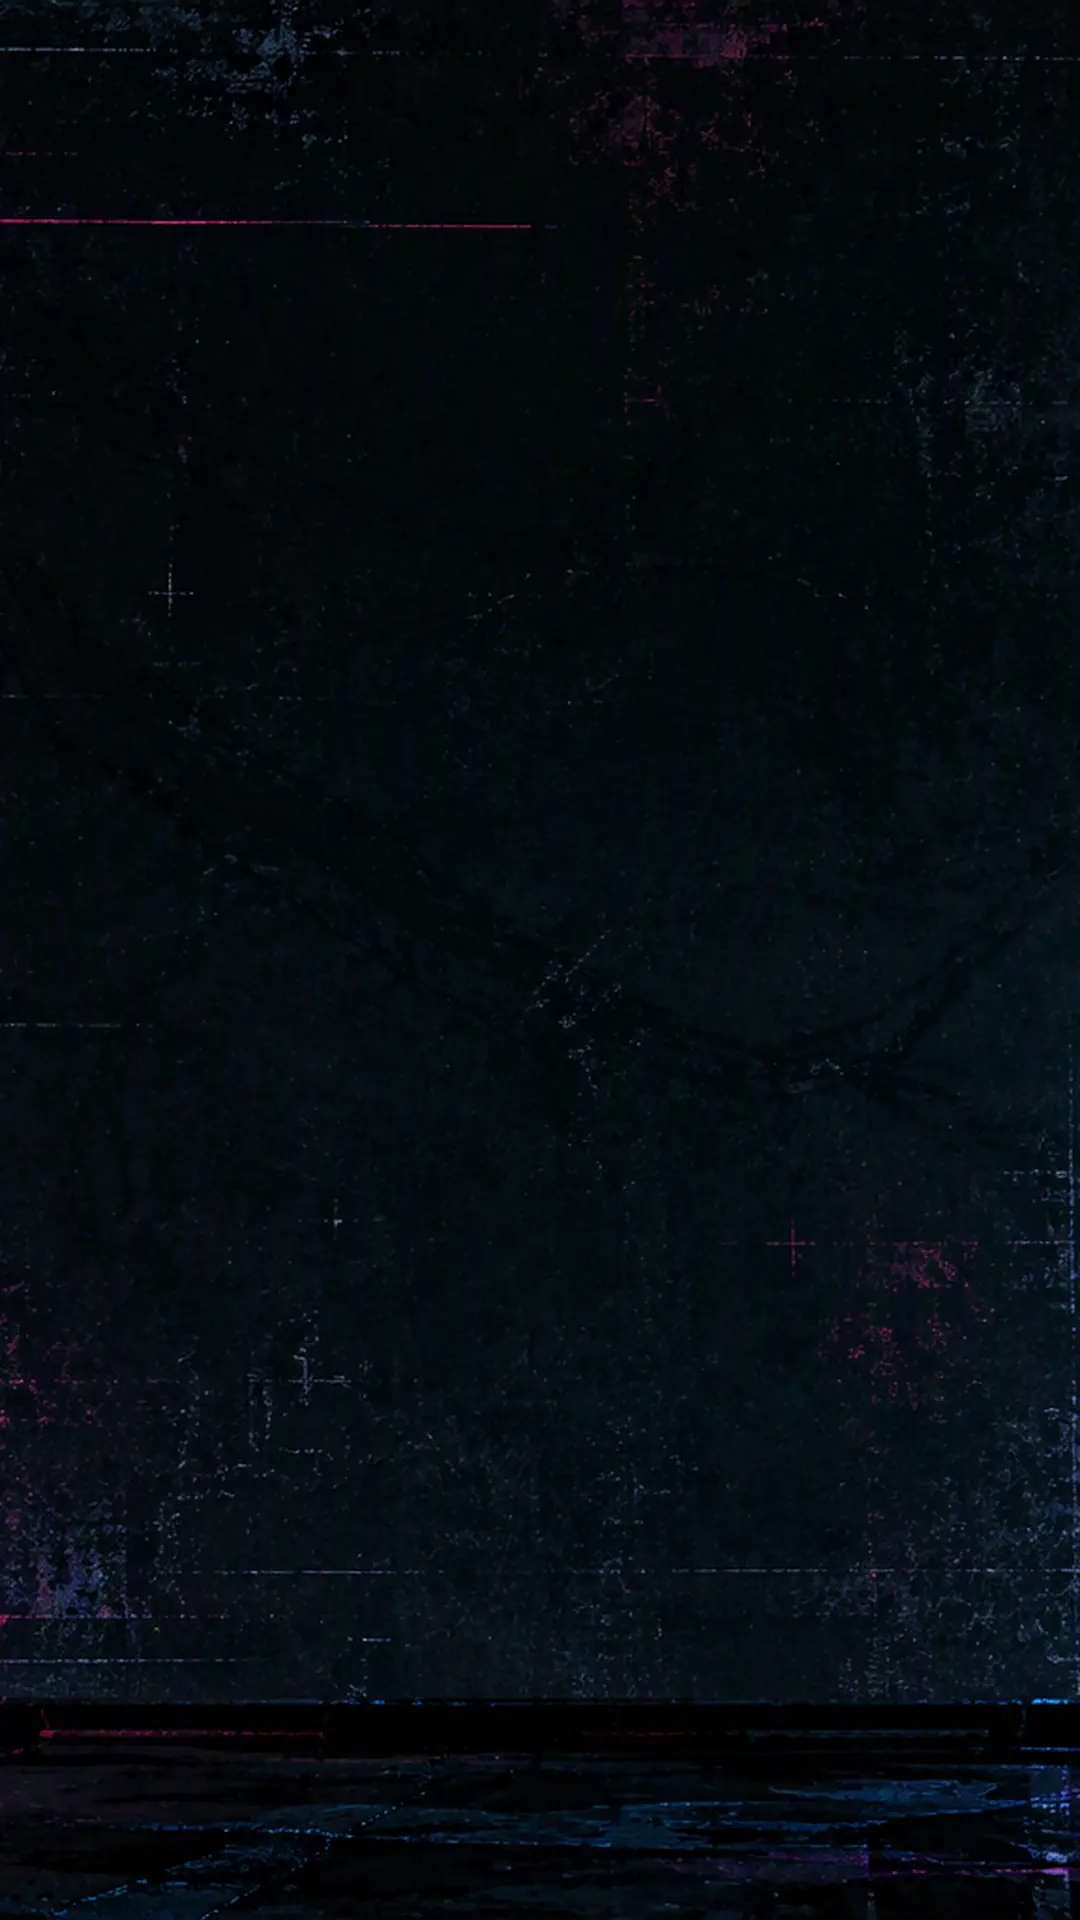
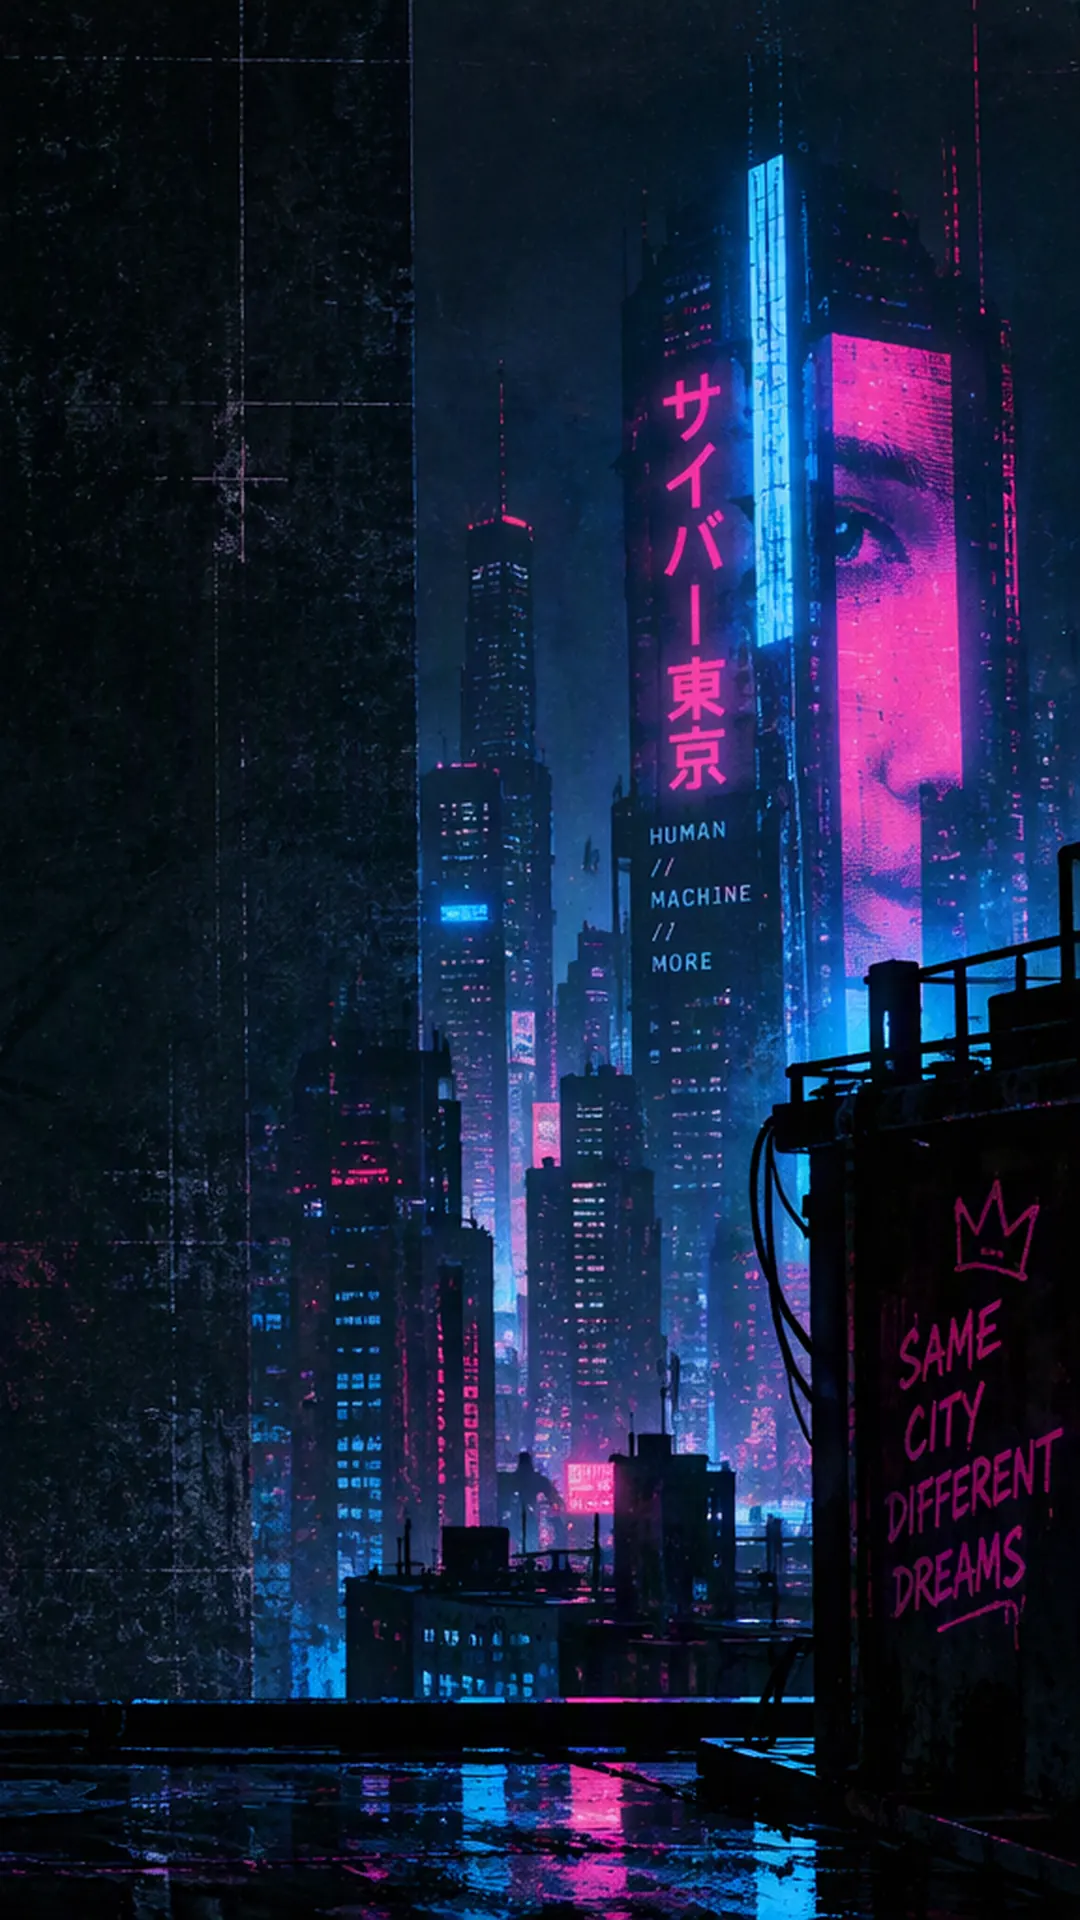
Make the background image actually render
A url() inside a CSS custom property resolves against the stylesheet, so the
layer pointed at /assets/images/punk2.webp, which does not exist. Vercel's SPA
rewrite answered that request with index.html and a 200, so the browser got
HTML where it expected an image. The background URL is now absolute.

The phone crop also took the empty middle of the artwork; it now uses the
skyline on the right, behind a gradient scrim. Content saved before the WebP
rename is migrated on load so old /images/*.png paths keep working.

diff --git a/my-portfolio/src/lib/contentStore.js b/my-portfolio/src/lib/contentStore.js
@@ -53,15 +53,35 @@ function writeJson(key, value) {
   }
 }
 
+// Image files that were optimised and renamed. Browsers that still hold the
+// old paths in localStorage would otherwise show a broken background or photo.
+const RENAMED_IMAGES = {
+  '/images/punk2.png': '/images/punk2.webp',
+  '/images/home-image-jo7t6d.jpg': '/images/home-image-jo7t6d.webp',
+}
+
+function migrateImagePaths(content) {
+  const fix = (value) => (typeof value === 'string' && RENAMED_IMAGES[value]) || value
+
+  return {
+    ...content,
+    site: content.site
+      ? { ...content.site, backgroundImage: fix(content.site.backgroundImage) }
+      : content.site,
+    home: content.home ? { ...content.home, image: fix(content.home.image) } : content.home,
+  }
+}
+
 /** The content currently published by the site (what visitors see). */
 export function loadPublished() {
   const stored = readJson(STORAGE_KEY)
-  return stored ? merge(defaultContent, stored) : defaultContent
+  return stored ? migrateImagePaths(merge(defaultContent, stored)) : defaultContent
 }
 
 /** Unsaved edits held in the admin panel. */
 export function loadDraft() {
-  return readJson(DRAFT_KEY)
+  const draft = readJson(DRAFT_KEY)
+  return draft ? migrateImagePaths(draft) : draft
 }
 
 export function saveDraft(content) {

diff --git a/my-portfolio/src/App.jsx b/my-portfolio/src/App.jsx
@@ -16,6 +16,19 @@ import { isAuthenticated } from './lib/contentStore'
 const LOGIN_PATH = 'login'
 const MOBILE_BACKGROUND_QUERY = '(max-width: 768px)'
 
+/**
+ * Custom properties holding a url() are resolved against the stylesheet that
+ * consumes them, not against the page. Absolute URLs keep the background
+ * pointing at the real file.
+ */
+function toAbsoluteUrl(path) {
+  try {
+    return new URL(path, document.baseURI).href
+  } catch {
+    return path
+  }
+}
+
 function Portfolio() {
   const { content } = useContent()
 
@@ -31,7 +44,7 @@ function Portfolio() {
       return
     }
 
-    const desktop = assetUrl(path)
+    const desktop = toAbsoluteUrl(assetUrl(path))
     const desktopUrl = `url("${desktop}")`
     const query = window.matchMedia(MOBILE_BACKGROUND_QUERY)
 

diff --git a/my-portfolio/src/App.css b/my-portfolio/src/App.css
@@ -25,7 +25,14 @@ body::before {
     pointer-events: none;
 
     background-color: #081b29;
-    background-image: var(--site-bg-mobile, var(--site-bg-desktop, none));
+    /* A scrim keeps content readable over the bright neon, fading darker
+       towards the bottom where the text sections start. */
+    background-image: linear-gradient(
+            rgba(8, 27, 41, 0.35),
+            rgba(8, 27, 41, 0.7) 55%,
+            rgba(8, 27, 41, 0.85)
+        ),
+        var(--site-bg-mobile, var(--site-bg-desktop, none));
     background-size: cover;
     background-position: center top;
     background-repeat: no-repeat;
